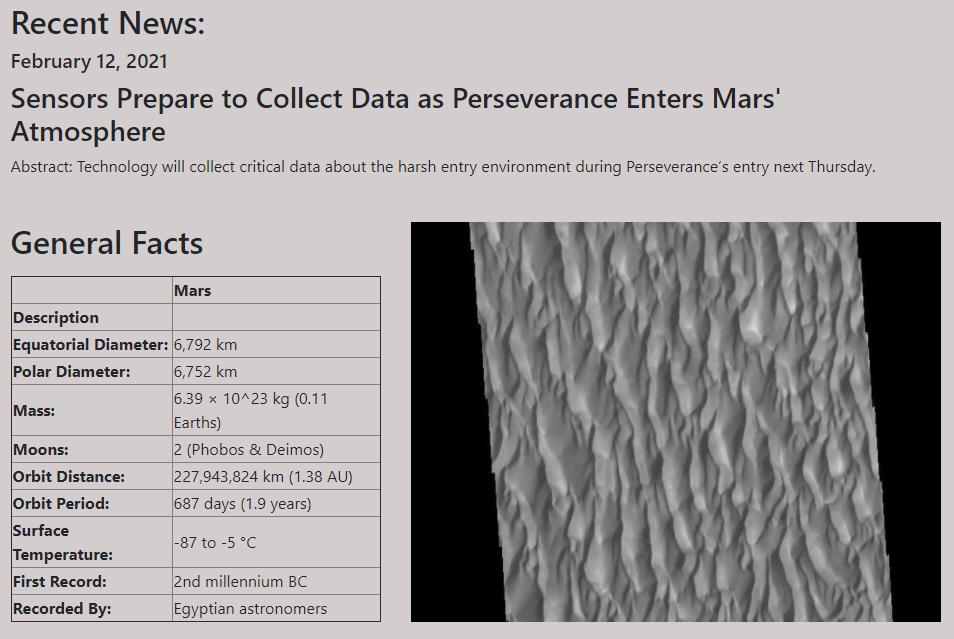
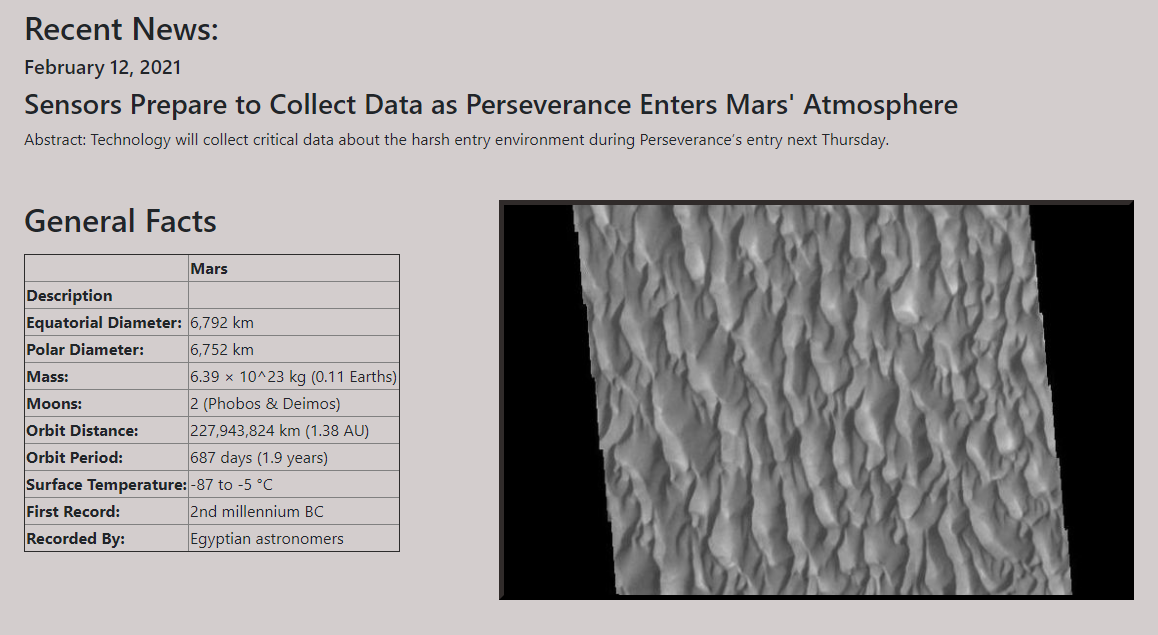
update html
add borders and some style

Changed region(s): [[0.4256, 0.2992, 1.0, 0.9874], [0.0, 0.3291, 0.3952, 0.9874], [0.0, 0.0, 0.9119, 0.2693]]

diff --git a/templates/index.html b/templates/index.html
@@ -38,7 +38,7 @@
         <p>{{ mars_data.mars_table_html | safe }}</p>
       </div>
       <div class="col-md-7" id="mars-image">
-        <img src="{{mars_data.featured_image_url}}" alt="Mars featured image" style="max-width: 100%; height: 400px; border:rgb(241, 142, 49); border-width:5px; border-style:outset;">
+        <img src="{{mars_data.featured_image_url}}" alt="Mars featured image" style="max-width: 100%; height: 400px; border:rgb(48, 43, 42); border-width:5px; border-style:outset;">
       </div>
     </div>
   </div>

diff --git a/scrape_mars.py b/scrape_mars.py
@@ -90,7 +90,7 @@ def master_scrape():
         # Table for viewing
         mars_facts_df.set_index("Description", inplace=True)
         # Convert table to html
-        mars_table_html = mars_facts_df.to_html(index=True, header=True, classes="dataframe style", justify="left")
+        mars_table_html = mars_facts_df.to_html(index=True, border=1, header=True, justify="left")
         
         # Append to collection dictionary
         mars_news["mars_table_html"] = mars_table_html
